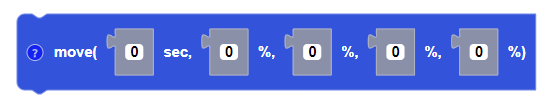
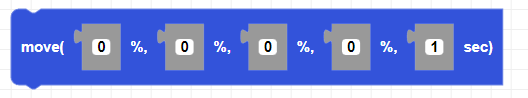
adding new move and hover images

diff --git a/docs/codrone-edu/blockly/Senior/01-Flight-Commands/05-move.md b/docs/codrone-edu/blockly/Senior/01-Flight-Commands/05-move.md
@@ -13,12 +13,12 @@ title: move()
 Moves the drone in a direction for a given duration and given power percentage.
 
 ##### Parameters
-![move image](move_params.PNG)
-**duration**: the duration of the movement. any positive integer in seconds. <br />
+
 **roll**: any integer (from -100 to +100) <br /> 
 **pitch**: any integer (from -100 to +100) <br />
 **yaw**: any integer (from -100 to +100) <br /> 
 **throttle**: any integer (from -100 to +100) <br />
+**duration**: the duration of the movement. any positive integer in seconds. <br />
 
 ##### Returns
 
